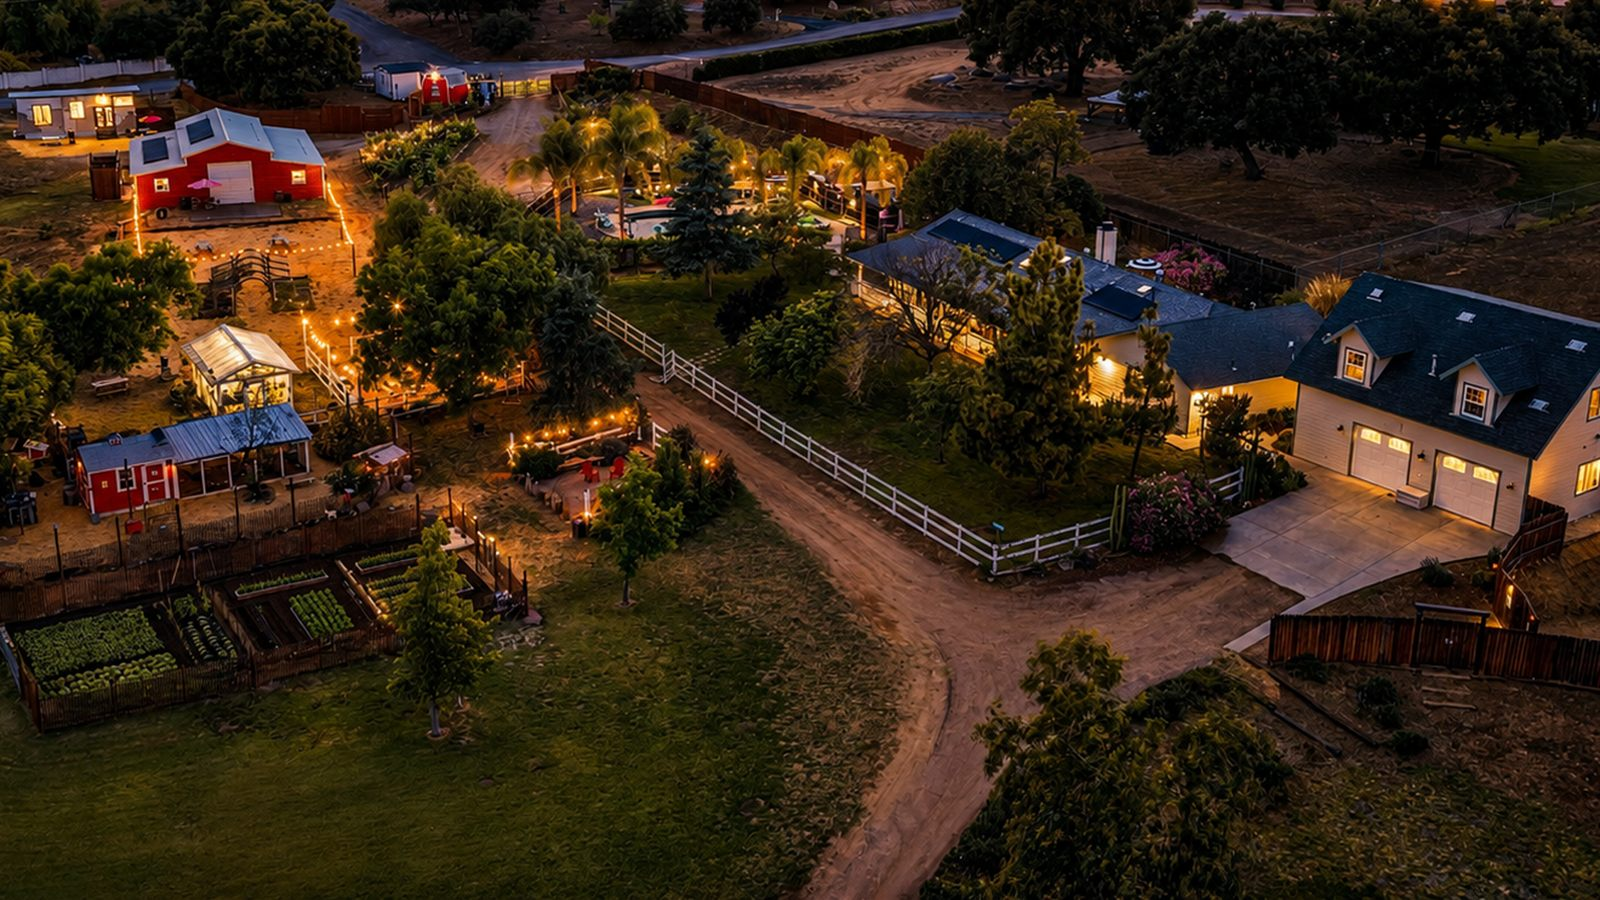
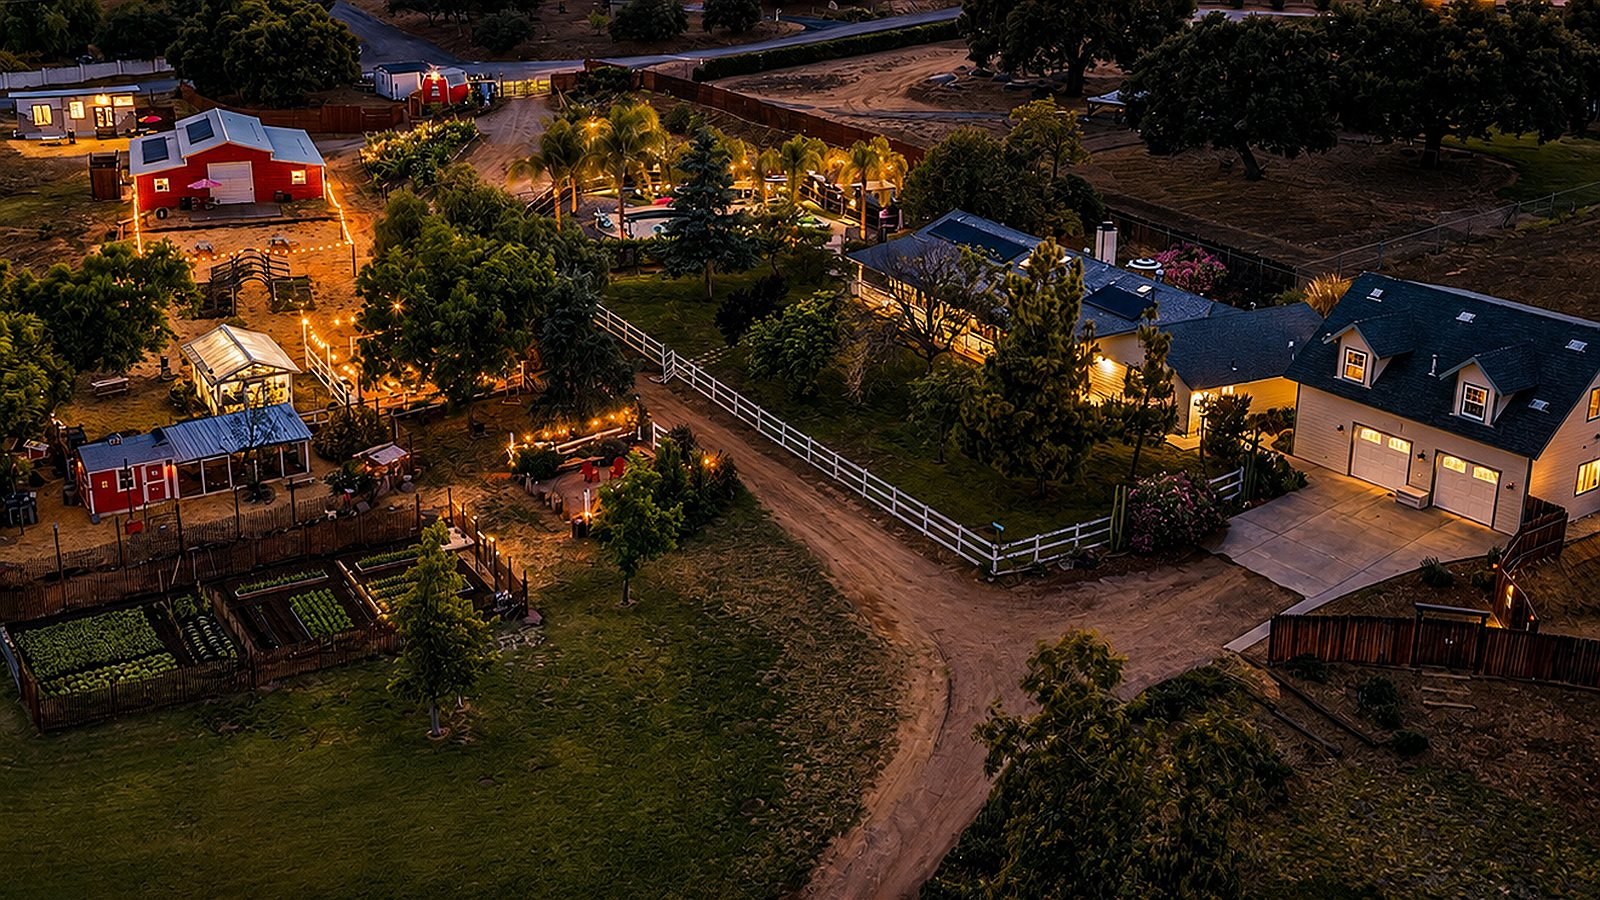
Refine hero rotation: drop barn shots, sharpen aerial, fix pacing
- Remove both barn photos from the rotation (12 -> 10 slots, cycle
  108s -> 90s, same 9s/2.5s per-photo timing extended)
- Sharpen the aerial dusk shot (unsharp-mask convolution) - the
  source had visible softness/noise at full size
- Reorder so pool shots (5 of the 10) never appear back to back,
  alternating with a non-pool photo every time, including the loop
  point
- Swap the opening/eager-loaded photo from the porch to the fire pit,
  since that's also the only photo mobile and no-JS visitors ever see

diff --git a/index.html b/index.html
@@ -28,8 +28,8 @@
 <link rel="apple-touch-icon" sizes="180x180" href="/images/apple-touch-icon.png">
 <link rel="icon" type="image/png" sizes="512x512" href="/images/icon-512.png">
 <meta name="theme-color" content="#3F5548">
-<link rel="preload" as="image" href="/images/hero1-front-porch-1600.jpg">
-<link rel="preload" as="image" imagesrcset="/images/hero1-front-porch-828.jpg 828w, /images/hero1-front-porch-1600.jpg 1600w" imagesizes="100vw">
+<link rel="preload" as="image" href="/images/hero7-fire-pit-1600.jpg">
+<link rel="preload" as="image" imagesrcset="/images/hero7-fire-pit-828.jpg 828w, /images/hero7-fire-pit-1600.jpg 1600w" imagesizes="100vw">
 <link rel="stylesheet" href="/css/site.css?v=4b0c6ca4">
 <style>
   :root {
@@ -104,18 +104,16 @@
   <!-- HERO -->
   <section class="hero-band">
     <div class="hero-stack" aria-hidden="true">
-      <img class="hero-shot" style="--i:0" src="/images/hero1-front-porch-1600.jpg" srcset="/images/hero1-front-porch-828.jpg 828w, /images/hero1-front-porch-1600.jpg 1600w" sizes="100vw" width="1600" height="900" fetchpriority="high" decoding="async" alt="">
-      <img class="hero-shot" style="--i:1" data-src="/images/hero2-barn-golden-hour-1600.jpg" data-srcset="/images/hero2-barn-golden-hour-828.jpg 828w, /images/hero2-barn-golden-hour-1600.jpg 1600w" sizes="100vw" width="1600" height="900" decoding="async" alt="">
-      <img class="hero-shot" style="--i:2" data-src="/images/hero3-pool-daylight-1600.jpg" data-srcset="/images/hero3-pool-daylight-828.jpg 828w, /images/hero3-pool-daylight-1600.jpg 1600w" sizes="100vw" width="1600" height="900" decoding="async" alt="">
-      <img class="hero-shot" style="--i:3" data-src="/images/hero4-greenhouse-1600.jpg" data-srcset="/images/hero4-greenhouse-828.jpg 828w, /images/hero4-greenhouse-1600.jpg 1600w" sizes="100vw" width="1600" height="900" decoding="async" alt="">
+      <img class="hero-shot" style="--i:0" src="/images/hero7-fire-pit-1600.jpg" srcset="/images/hero7-fire-pit-828.jpg 828w, /images/hero7-fire-pit-1600.jpg 1600w" sizes="100vw" width="1600" height="900" fetchpriority="high" decoding="async" alt="">
+      <img class="hero-shot" style="--i:1" data-src="/images/hero3-pool-daylight-1600.jpg" data-srcset="/images/hero3-pool-daylight-828.jpg 828w, /images/hero3-pool-daylight-1600.jpg 1600w" sizes="100vw" width="1600" height="900" decoding="async" alt="">
+      <img class="hero-shot" style="--i:2" data-src="/images/hero4-greenhouse-1600.jpg" data-srcset="/images/hero4-greenhouse-828.jpg 828w, /images/hero4-greenhouse-1600.jpg 1600w" sizes="100vw" width="1600" height="900" decoding="async" alt="">
+      <img class="hero-shot" style="--i:3" data-src="/images/hero8-pool-gazebo-1600.jpg" data-srcset="/images/hero8-pool-gazebo-828.jpg 828w, /images/hero8-pool-gazebo-1600.jpg 1600w" sizes="100vw" width="1600" height="900" decoding="async" alt="">
       <img class="hero-shot" style="--i:4" data-src="/images/hero5-back-yard-1600.jpg" data-srcset="/images/hero5-back-yard-828.jpg 828w, /images/hero5-back-yard-1600.jpg 1600w" sizes="100vw" width="1600" height="900" decoding="async" alt="">
-      <img class="hero-shot" style="--i:5" data-src="/images/hero6-barn-yard-1600.jpg" data-srcset="/images/hero6-barn-yard-828.jpg 828w, /images/hero6-barn-yard-1600.jpg 1600w" sizes="100vw" width="1600" height="900" decoding="async" alt="">
-      <img class="hero-shot" style="--i:6" data-src="/images/hero7-fire-pit-1600.jpg" data-srcset="/images/hero7-fire-pit-828.jpg 828w, /images/hero7-fire-pit-1600.jpg 1600w" sizes="100vw" width="1600" height="900" decoding="async" alt="">
-      <img class="hero-shot" style="--i:7" data-src="/images/hero8-pool-gazebo-1600.jpg" data-srcset="/images/hero8-pool-gazebo-828.jpg 828w, /images/hero8-pool-gazebo-1600.jpg 1600w" sizes="100vw" width="1600" height="900" decoding="async" alt="">
-      <img class="hero-shot" style="--i:8" data-src="/images/hero9-pool-overhead-1600.jpg" data-srcset="/images/hero9-pool-overhead-828.jpg 828w, /images/hero9-pool-overhead-1600.jpg 1600w" sizes="100vw" width="1600" height="900" decoding="async" alt="">
-      <img class="hero-shot" style="--i:9" data-src="/images/hero10-rbr-aerial-dusk-1600.jpg" data-srcset="/images/hero10-rbr-aerial-dusk-828.jpg 828w, /images/hero10-rbr-aerial-dusk-1600.jpg 1600w" sizes="100vw" width="1600" height="900" decoding="async" alt="">
-      <img class="hero-shot" style="--i:10" data-src="/images/hero11-pool-night-1600.jpg" data-srcset="/images/hero11-pool-night-828.jpg 828w, /images/hero11-pool-night-1600.jpg 1600w" sizes="100vw" width="1600" height="900" decoding="async" alt="">
-      <img class="hero-shot" style="--i:11" data-src="/images/hero12-pool-daylight-2-1600.jpg" data-srcset="/images/hero12-pool-daylight-2-828.jpg 828w, /images/hero12-pool-daylight-2-1600.jpg 1600w" sizes="100vw" width="1600" height="900" decoding="async" alt="">
+      <img class="hero-shot" style="--i:5" data-src="/images/hero9-pool-overhead-1600.jpg" data-srcset="/images/hero9-pool-overhead-828.jpg 828w, /images/hero9-pool-overhead-1600.jpg 1600w" sizes="100vw" width="1600" height="900" decoding="async" alt="">
+      <img class="hero-shot" style="--i:6" data-src="/images/hero1-front-porch-1600.jpg" data-srcset="/images/hero1-front-porch-828.jpg 828w, /images/hero1-front-porch-1600.jpg 1600w" sizes="100vw" width="1600" height="900" decoding="async" alt="">
+      <img class="hero-shot" style="--i:7" data-src="/images/hero11-pool-night-1600.jpg" data-srcset="/images/hero11-pool-night-828.jpg 828w, /images/hero11-pool-night-1600.jpg 1600w" sizes="100vw" width="1600" height="900" decoding="async" alt="">
+      <img class="hero-shot" style="--i:8" data-src="/images/hero10-rbr-aerial-dusk-1600.jpg" data-srcset="/images/hero10-rbr-aerial-dusk-828.jpg 828w, /images/hero10-rbr-aerial-dusk-1600.jpg 1600w" sizes="100vw" width="1600" height="900" decoding="async" alt="">
+      <img class="hero-shot" style="--i:9" data-src="/images/hero12-pool-daylight-2-1600.jpg" data-srcset="/images/hero12-pool-daylight-2-828.jpg 828w, /images/hero12-pool-daylight-2-1600.jpg 1600w" sizes="100vw" width="1600" height="900" decoding="async" alt="">
     </div>
     <div class="hero-scrim" aria-hidden="true"></div>
     <div class="hero-drift" aria-hidden="true"></div>
@@ -566,7 +564,7 @@ Mountain Retreat offers a different kind of stay: eight acres of trail and pine 
 <script>
 /* The hero rotates only on a wide screen with motion allowed. Everywhere else
    — phones, reduced-motion, no JS — the first photo stays put and the other
-   eleven are never downloaded. */
+   nine are never downloaded. */
 (function () {
   var m = window.matchMedia;
   if (!m || !m("(min-width: 47rem)").matches || m("(prefers-reduced-motion: reduce)").matches) return;

diff --git a/css/site.css b/css/site.css
@@ -440,31 +440,31 @@ a { color: inherit; }
   opacity: 0;
 }
 /* Without JS, on a phone, or with motion reduced: the first photo, and only
-   the first photo. The other eleven never get a src, so they never download. */
+   the first photo. The other nine never get a src, so they never download. */
 .hero-shot:first-child { opacity: 1; }
 
 .hero-stack--play .hero-shot:first-child { opacity: 0; }
 .hero-stack--play .hero-shot {
   animation:
-    heroCycle 108s linear infinite,
-    heroDrift 108s linear infinite;
-  /* twelve nine-second slots; the -6.5s starts the cycle mid-hold so the first
+    heroCycle 90s linear infinite,
+    heroDrift 90s linear infinite;
+  /* ten nine-second slots; the -6.5s starts the cycle mid-hold so the first
      photo is fully up on paint instead of fading in from nothing */
   animation-delay: calc(var(--i) * 9s - 6.5s);
   will-change: opacity, transform;
 }
 @keyframes heroCycle {
   0%       { opacity: 0 }
-  2.3148%  { opacity: 1 }
-  8.3333%  { opacity: 1 }
-  10.6481% { opacity: 0 }
+  2.7778%  { opacity: 1 }
+  10%      { opacity: 1 }
+  12.7778% { opacity: 0 }
   100%     { opacity: 0 }
 }
 /* the drift: a slow push-in while the photo is on screen; it resets while
    the photo is fully transparent, so the jump is never visible */
 @keyframes heroDrift {
   0%                  { transform: scale(1.03) translate3d(0,0,0) }
-  10.6481%, 100%      { transform: scale(1.11) translate3d(-1.2%,-0.6%,0) }
+  12.7778%, 100%      { transform: scale(1.11) translate3d(-1.2%,-0.6%,0) }
 }
 @media (prefers-reduced-motion: reduce) {
   .hero-stack--play .hero-shot { animation: none; opacity: 0; }
